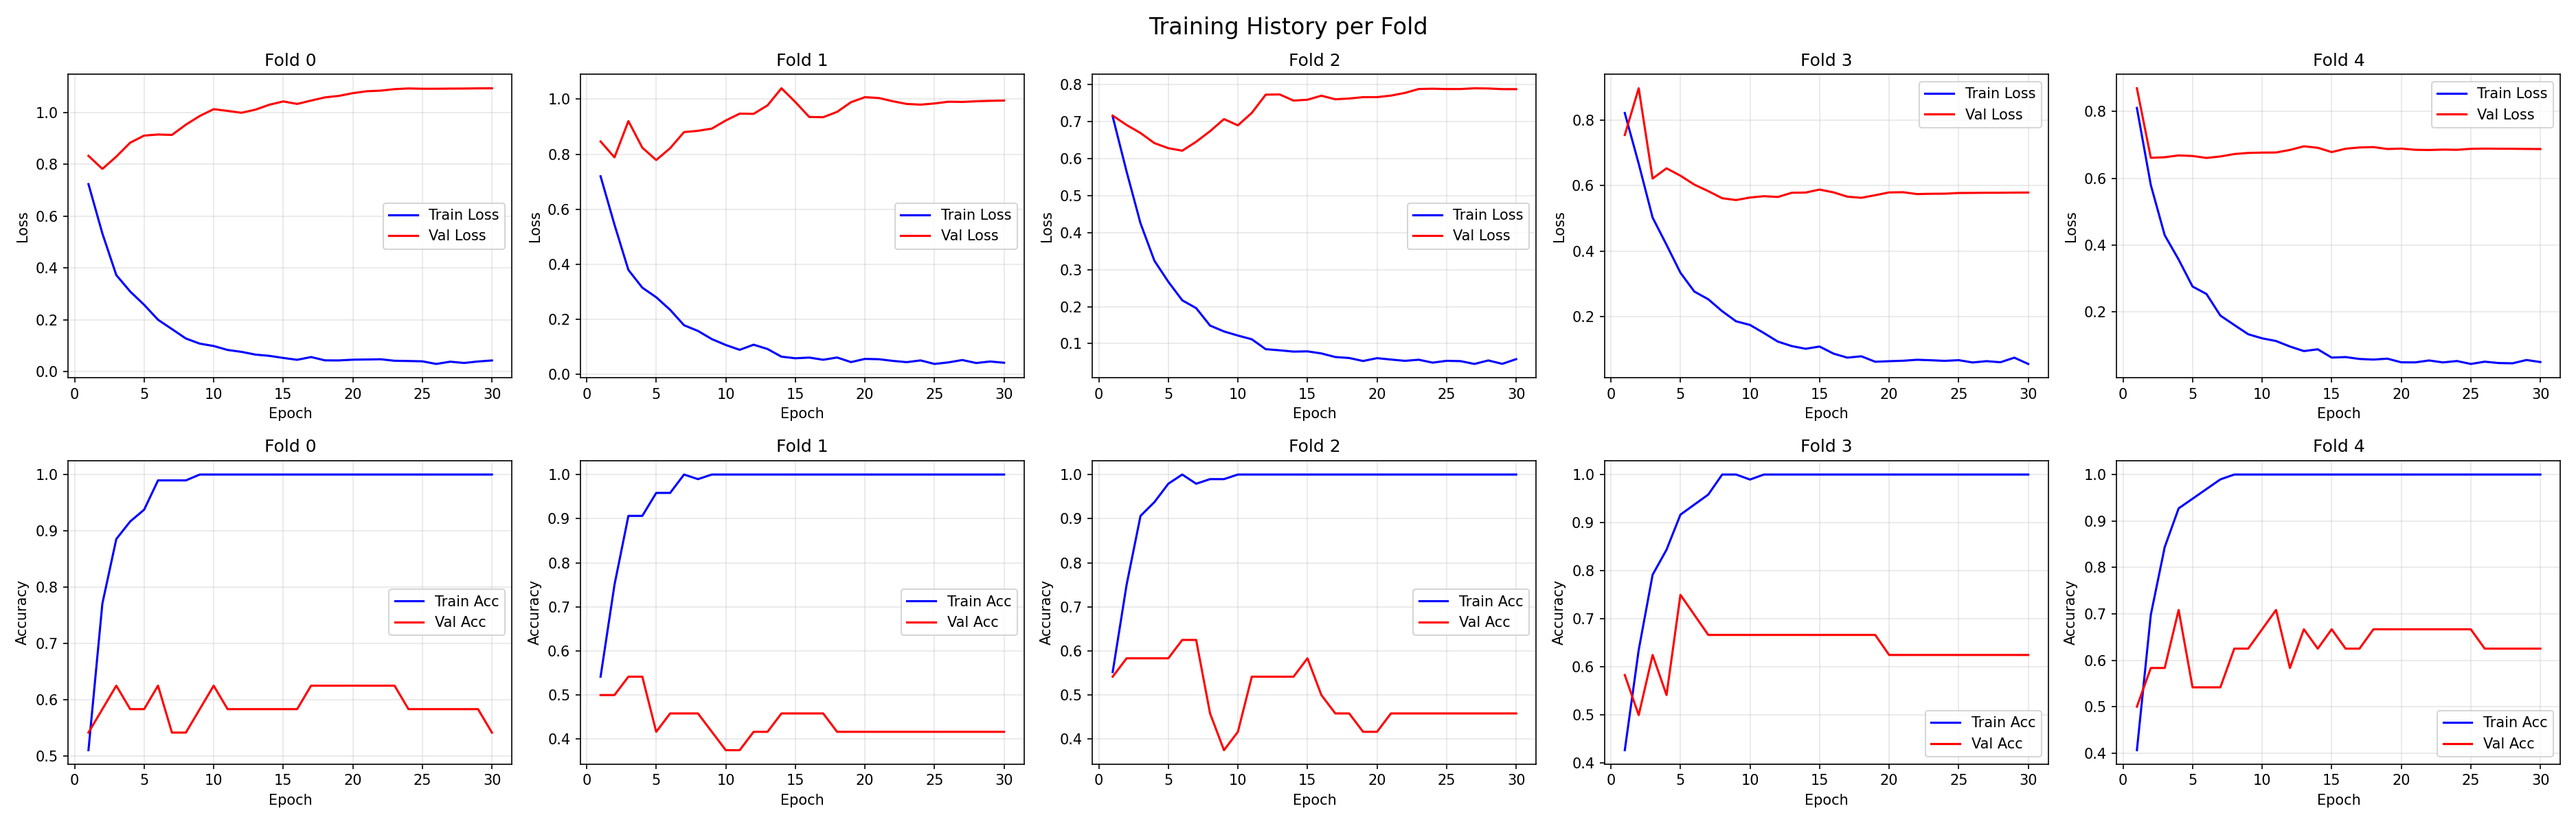
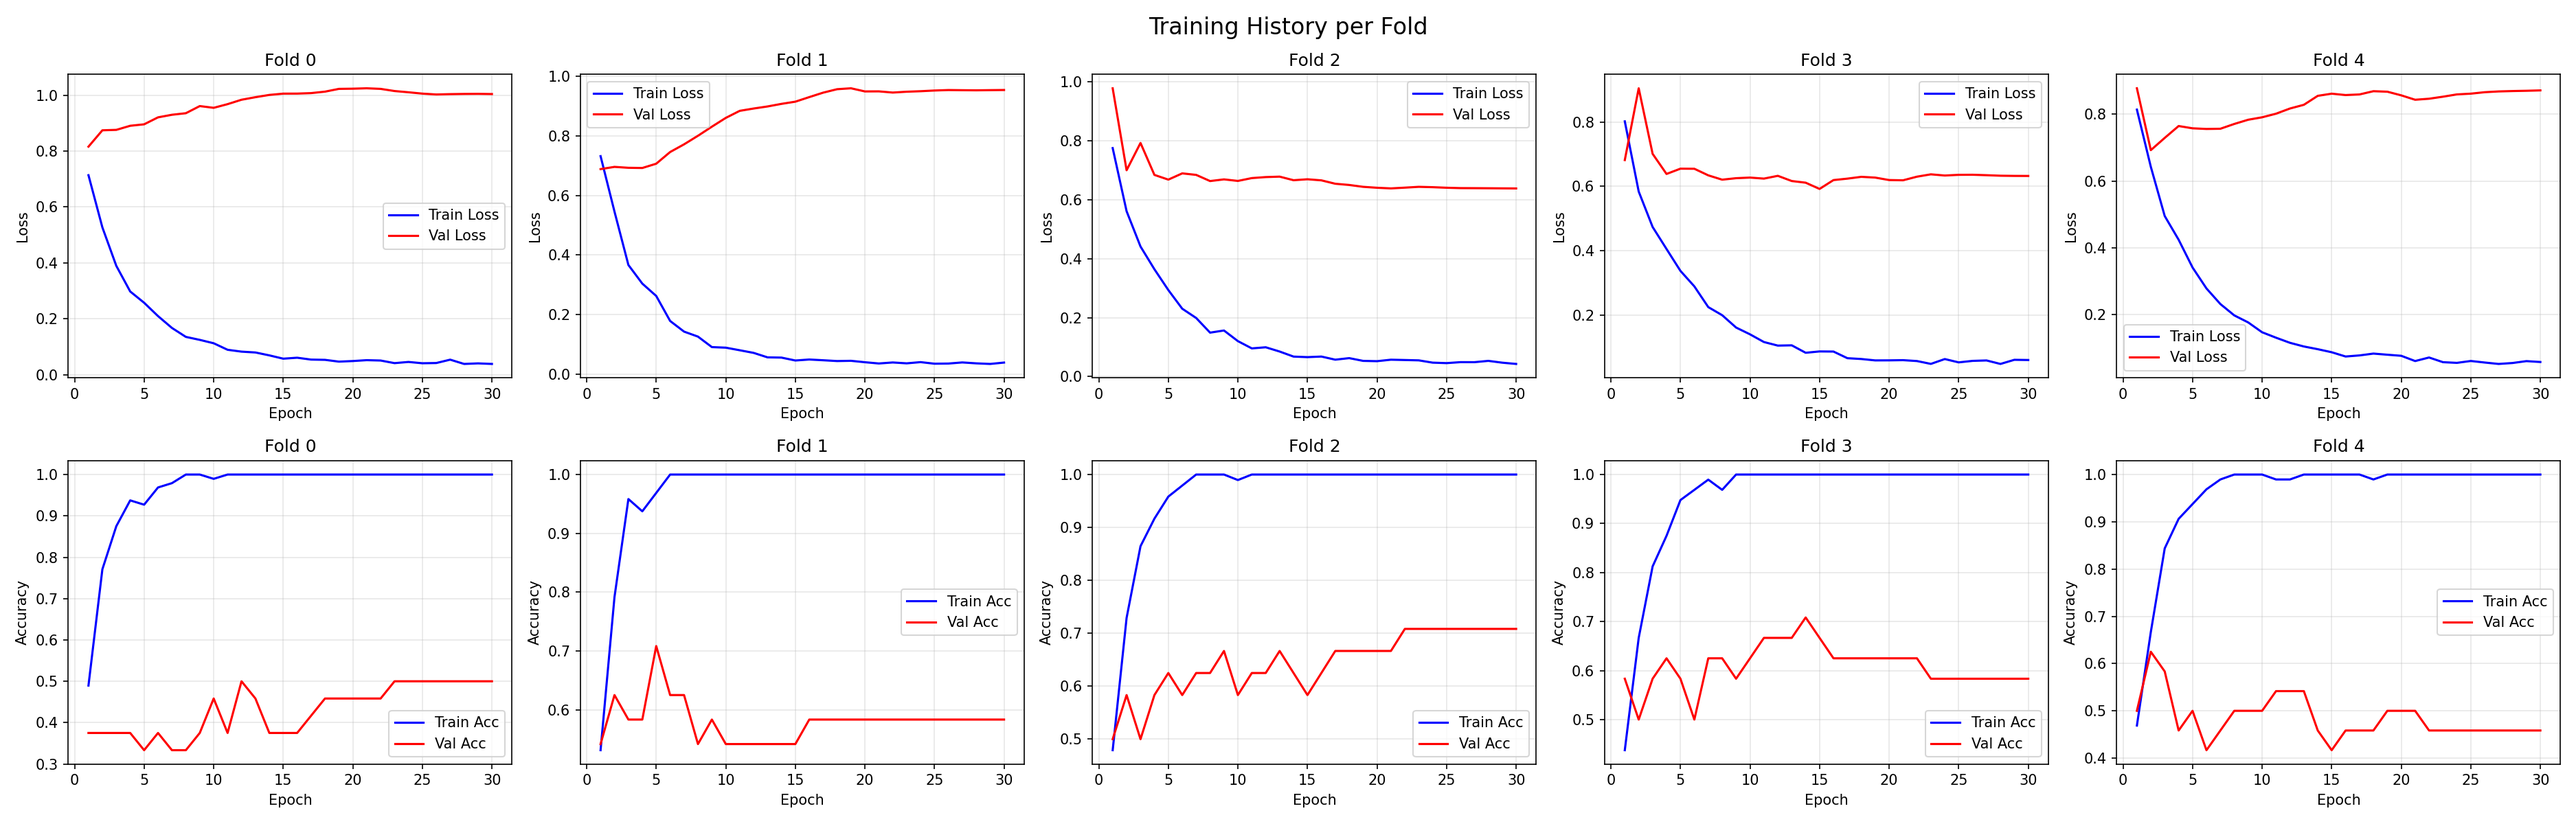
restruct 2a

diff --git a/dataloader/_dataset_BCICIV2a.py b/dataloader/_dataset_BCICIV2a.py
@@ -1,47 +1,17 @@
-from glob import glob
-from tqdm import tqdm
 import mne
-import torch
 import scipy
 import numpy as np
 from typing import List, Union, Dict, Optional, Tuple
-import pandas as pd
 import os
 
 from preprocessing.bandpass import bandpass_filter
-import constant_value
 # from preprocessing.pipline import FilterBankProcessor, ExponentialMovingStandardizeProcessor
 from dataloader._dataset_Base import BaseDataset
 
 
 class BCICompet2aIV(BaseDataset):
 
-    def _load_and_process_subject_data(self) -> Tuple[np.ndarray, np.ndarray, np.ndarray]:
-        """主流程：加载、预处理、并组织单个受试者的数据，输出格式与XWStroke一致。"""
-        # 1. 加载原始数据和标签
-        raw_data_per_session, raw_labels = self._load_bci_raw_data()
-        # raw_data_per_session: list of (n_trials, n_channels, n_times)
-        # raw_labels: (n_total_trials,)
-        
-        # 2. 通道选择（如果配置中指定了）
-        if self.channels_selected is not None:
-            selected_data = [session[:, self.channels_selected, :] for session in raw_data_per_session]
-        else:
-            selected_data = raw_data_per_session
-        
-        # 3. 应用滤波器组预处理
-        # 将试次列表合并为一个数组以便处理: (n_total_trials, n_channels, n_times)
-        all_trials = np.concatenate(selected_data, axis=0)
-        processed_data = self._apply_filterbank_preprocessing(all_trials)  # 输出: (n_trials, n_bands, n_channels, n_times)
-        
-        # 4. 滑动窗口分割（为每个试次生成窗口）
-        # 在BCI数据中，通常每个试次已经是一个完整的 trials，但为了与XW保持一致，我们仍可进行窗口化
-        # 这里将每个试次视为一个独立的“session”用于分组
-        final_data, final_labels, final_group_ids = self._apply_sliding_window_to_trials(processed_data, raw_labels)
-        
-        return final_data, final_labels, final_group_ids
-
-    def _load_bci_raw_data(self) -> Tuple[List[np.ndarray], np.ndarray]:
+    def _load_raw_data(self) -> Tuple[List[np.ndarray], np.ndarray]:
         """
         简化版本：直接加载目标受试者的文件
         """
@@ -49,8 +19,8 @@ class BCICompet2aIV(BaseDataset):
         file_suffix = 'T' if not self.is_test else 'E'
         
         # 直接构建目标文件名
-        target_gdf_file = f'{self.base_path}/A{self.subject_id:02d}{file_suffix}.gdf'
-        target_mat_file = f'{self.base_path}/A{self.subject_id:02d}{file_suffix}.mat'
+        target_gdf_file = f'{self.data_dir}/A{self.subject_id:02d}{file_suffix}.gdf'
+        target_mat_file = f'{self.data_dir}/A{self.subject_id:02d}{file_suffix}.mat'
         
         # 检查文件是否存在
         if not os.path.exists(target_gdf_file):
@@ -103,8 +73,6 @@ class BCICompet2aIV(BaseDataset):
                             baseline=None,
                             preload=True)
         
-        if self.downsampling != 0:
-            epochs = epochs.resample(self.downsampling)
         self.fs = epochs.info['sfreq']
         
         # 获取数据
@@ -125,45 +93,45 @@ class BCICompet2aIV(BaseDataset):
         
         return session_data, label_list
     
-    # def _exponential_moving_standardize(self, data, init_block_size, factor_new=0.001):
-    #     """指数移动标准化（修正版）"""
-    #     import pandas as pd
-    #     import numpy as np
+    def _exponential_moving_standardize(self, data, init_block_size, factor_new=0.001):
+        """指数移动标准化（修正版）"""
+        import pandas as pd
+        import numpy as np
         
-    #     # 确保数据形状是 (n_channels, n_times)
-    #     if data.shape[0] != 22:  # 假设22是通道数
-    #         # 如果输入是 (n_times, n_channels)，则转置
-    #         if data.shape[1] == 22:
-    #             data = data.T
-    #         else:
-    #             # 尝试自动推断
-    #             if data.shape[0] > data.shape[1]:
-    #                 data = data.T
+        # 确保数据形状是 (n_channels, n_times)
+        if data.shape[0] != 22:  # 假设22是通道数
+            # 如果输入是 (n_times, n_channels)，则转置
+            if data.shape[1] == 22:
+                data = data.T
+            else:
+                # 尝试自动推断
+                if data.shape[0] > data.shape[1]:
+                    data = data.T
         
-    #     df = pd.DataFrame(data.T)
-    #     meaned = df.ewm(alpha=factor_new).mean()
-    #     demeaned = df - meaned
-    #     squared = demeaned * demeaned
-    #     square_ewmed = squared.ewm(alpha=factor_new).mean()
-    #     standardized = demeaned / np.maximum(1e-4, np.sqrt(np.array(square_ewmed)))
-    #     standardized = np.array(standardized)  # 形状: (n_times, n_channels)
+        df = pd.DataFrame(data.T)
+        meaned = df.ewm(alpha=factor_new).mean()
+        demeaned = df - meaned
+        squared = demeaned * demeaned
+        square_ewmed = squared.ewm(alpha=factor_new).mean()
+        standardized = demeaned / np.maximum(1e-4, np.sqrt(np.array(square_ewmed)))
+        standardized = np.array(standardized)  # 形状: (n_times, n_channels)
         
-    #     if init_block_size is not None:
-    #         # 计算初始块的标准化
-    #         i_time_axis = 1  # 原始数据中时间轴是第1维
-    #         # 从原始数据中取初始块
-    #         init_data = data[..., :init_block_size]
-    #         # 沿着时间轴计算均值和标准差
-    #         init_mean = np.mean(init_data, axis=i_time_axis, keepdims=True)
-    #         init_std = np.std(init_data, axis=i_time_axis, keepdims=True)
-    #         init_block_standardized = (init_data - init_mean) / np.maximum(1e-4, init_std)
-    #         # 注意: init_block_standardized 形状是 (n_channels, init_block_size)
-    #         # 而 standardized[:init_block_size, :] 需要形状 (init_block_size, n_channels)
-    #         # 所以需要转置
-    #         standardized[:init_block_size, :] = init_block_standardized.T
+        if init_block_size is not None:
+            # 计算初始块的标准化
+            i_time_axis = 1  # 原始数据中时间轴是第1维
+            # 从原始数据中取初始块
+            init_data = data[..., :init_block_size]
+            # 沿着时间轴计算均值和标准差
+            init_mean = np.mean(init_data, axis=i_time_axis, keepdims=True)
+            init_std = np.std(init_data, axis=i_time_axis, keepdims=True)
+            init_block_standardized = (init_data - init_mean) / np.maximum(1e-4, init_std)
+            # 注意: init_block_standardized 形状是 (n_channels, init_block_size)
+            # 而 standardized[:init_block_size, :] 需要形状 (init_block_size, n_channels)
+            # 所以需要转置
+            standardized[:init_block_size, :] = init_block_standardized.T
         
-    #     # 返回转置后的结果，使形状变回 (n_channels, n_times)
-    #     return standardized.T
+        # 返回转置后的结果，使形状变回 (n_channels, n_times)
+        return standardized.T
 
     def _apply_filterbank_preprocessing(self, eeg_data: np.ndarray) -> np.ndarray:
         """

diff --git a/dataloader/_dataset_XWStroke.py b/dataloader/_dataset_XWStroke.py
@@ -30,57 +30,3 @@ class XWStrokeDataset(BaseDataset):
         file_path = os.path.join(self.data_dir, f"sub-{self.subject_id:02d}", file_name)
         data, labels = self._load_mat_data(file_path)
         return data, labels
-
-    def _apply_preprocessing(self, eeg_data):
-        """
-        Applies filter bank preprocessing to the EEG data.
-        """
-        print(eeg_data.shape)
-        band_data_list = []
-        for band_idx, (l_freq, h_freq) in enumerate(self.filter_banks):
-            filtered_data = bandpass.bandpass_filter(eeg_data,
-                                                 low_freq=l_freq,
-                                                 high_freq=h_freq,
-                                                 sfreq=self.sample_rate)
-            mean = filtered_data.mean(axis=-1, keepdims=True)
-            std = filtered_data.std(axis=-1, keepdims=True)
-            std[std < 1e-8] = 1.0
-            normalized_band_data = (filtered_data - mean) / std
-            normalized_band_data = normalized_band_data[:, np.newaxis, :, :]
-            band_data_list.append(normalized_band_data)
-        multi_band_data = np.concatenate(band_data_list, axis=1)
-        return multi_band_data
-
-    def _apply_sliding_window(self, processed_data, labels):
-        """
-        Applies a sliding window to each session's data and generates corresponding window labels.
-        """
-        windowed_data_list = []
-        windowed_labels_list = []
-        all_group_ids = []
-
-        n_sessions, n_bands, n_channels, n_timepoints = processed_data.shape
-
-        for sess_idx in range(n_sessions):
-            session_data = processed_data[sess_idx]  # Shape: (n_bands, n_channels, n_timepoints)
-            session_label = labels[sess_idx]
-
-            # Calculate the number of windows for this session
-            n_windows = 1 + (n_timepoints - self.window_len_samples) // self.window_stride_samples
-
-            for win_idx in range(n_windows):
-                start = win_idx * self.window_stride_samples
-                end = start + self.window_len_samples
-                window = session_data[:, :, start:end]  # Shape: (n_bands, n_channels, window_len_samples)
-
-                windowed_data_list.append(window)
-                windowed_labels_list.append(session_label)
-
-            all_group_ids.extend([sess_idx] * n_windows)
-
-        # Stack all windows
-        all_windowed_data = np.stack(windowed_data_list, axis=0).astype(np.float32)  # (n_total_windows, n_bands, n_channels, window_len)
-        all_windowed_labels = np.array(windowed_labels_list, dtype=np.int64)
-        all_group_ids = np.array(all_group_ids, dtype=np.int64)
-        print(all_group_ids.shape)
-        return all_windowed_data, all_windowed_labels, all_group_ids

diff --git a/dataloader/_dataset_Base.py b/dataloader/_dataset_Base.py
@@ -1,13 +1,14 @@
 from torch.utils.data import Dataset
 from preprocessing.slide_windows import SlidingWindowSegmenter
 from preprocessing.filter_banks import FilterBankProcessor
-# from braindecode.preprocessing import Preprocessor, preprocess, PreprocessingPipeline
+import numpy as np
 
 class BaseDataset(Dataset):
     def __init__(self, 
-                 subject_id: int, dataset_info: dict, transform=None):
+                 subject_id: int, dataset_info: dict, transform=None, is_test=False):
         self.subject_id = subject_id
         self.transform = transform
+        self.is_test = is_test
 
         # Load dataset metadata from the YAML configuration file
         self.info = dataset_info
@@ -50,7 +51,11 @@ class BaseDataset(Dataset):
     def _load_and_process_subject_data(self,):
          # 1. Construct file path and load raw data
         raw_eeg_data, raw_labels = self._load_raw_data()  # raw_eeg_data: (n_sessions, n_all_channels, n_timepoints)
-
+        raw_eeg_data = np.array(raw_eeg_data)
+        raw_labels = np.array(raw_labels)
+        if raw_eeg_data.shape[0] == 1:
+            raw_eeg_data = raw_eeg_data[0]  # 如果第一维是1，去掉这一维
+        print(f"[Subject {self.subject_id}] Raw data shape: {raw_eeg_data.shape}, Raw labels shape: {raw_labels.shape}")
         # 2. Channel selection
         selected_eeg_data = raw_eeg_data[:, self.channels_selected, :]  # (n_sessions, n_selected_channels, n_timepoints)
 

diff --git a/Models/_get_model.py b/Models/_get_model.py
@@ -13,7 +13,7 @@ def get_model(model_id, dataset_info):
     channels_num = len(dataset_info['preprocessing']['channel_selection']['channels_to_select'])
     class_num = dataset_info['dataset']['num_classes']
     sr = dataset_info['preprocessing']['resample']['target_sr']
-    input_size = constant_value.window_length * sr
+    input_size = int(dataset_info['preprocessing']['windowing']['window_length_sec'] * sr)
     band_num = len(constant_value.filter_banks)
 
     model_name = constant_value.MODELS[model_id]

diff --git a/models/_get_model.py b/models/_get_model.py
@@ -13,7 +13,7 @@ def get_model(model_id, dataset_info):
     channels_num = len(dataset_info['preprocessing']['channel_selection']['channels_to_select'])
     class_num = dataset_info['dataset']['num_classes']
     sr = dataset_info['preprocessing']['resample']['target_sr']
-    input_size = constant_value.window_length * sr
+    input_size = int(dataset_info['preprocessing']['windowing']['window_length_sec'] * sr)
     band_num = len(constant_value.filter_banks)
 
     model_name = constant_value.MODELS[model_id]

diff --git a/constant_value.py b/constant_value.py
@@ -5,7 +5,7 @@ DATASETS = {
     2: 'BCICIV2b',
     3: 'XWStroke',
 }
-SELECTED_DATASET = 3
+SELECTED_DATASET = 1
 # target_subjects = list(range(1,51))
 # target_subjects = list(range(1,10))
 target_subjects = [1]
@@ -23,7 +23,7 @@ SELECTED_MODEL = 3
 is_test = False
 
 # Preprocessing Config
-window_length = 2
+window_length = 3
 window_stride = 1
 filter_banks = [
     [4, 40],
